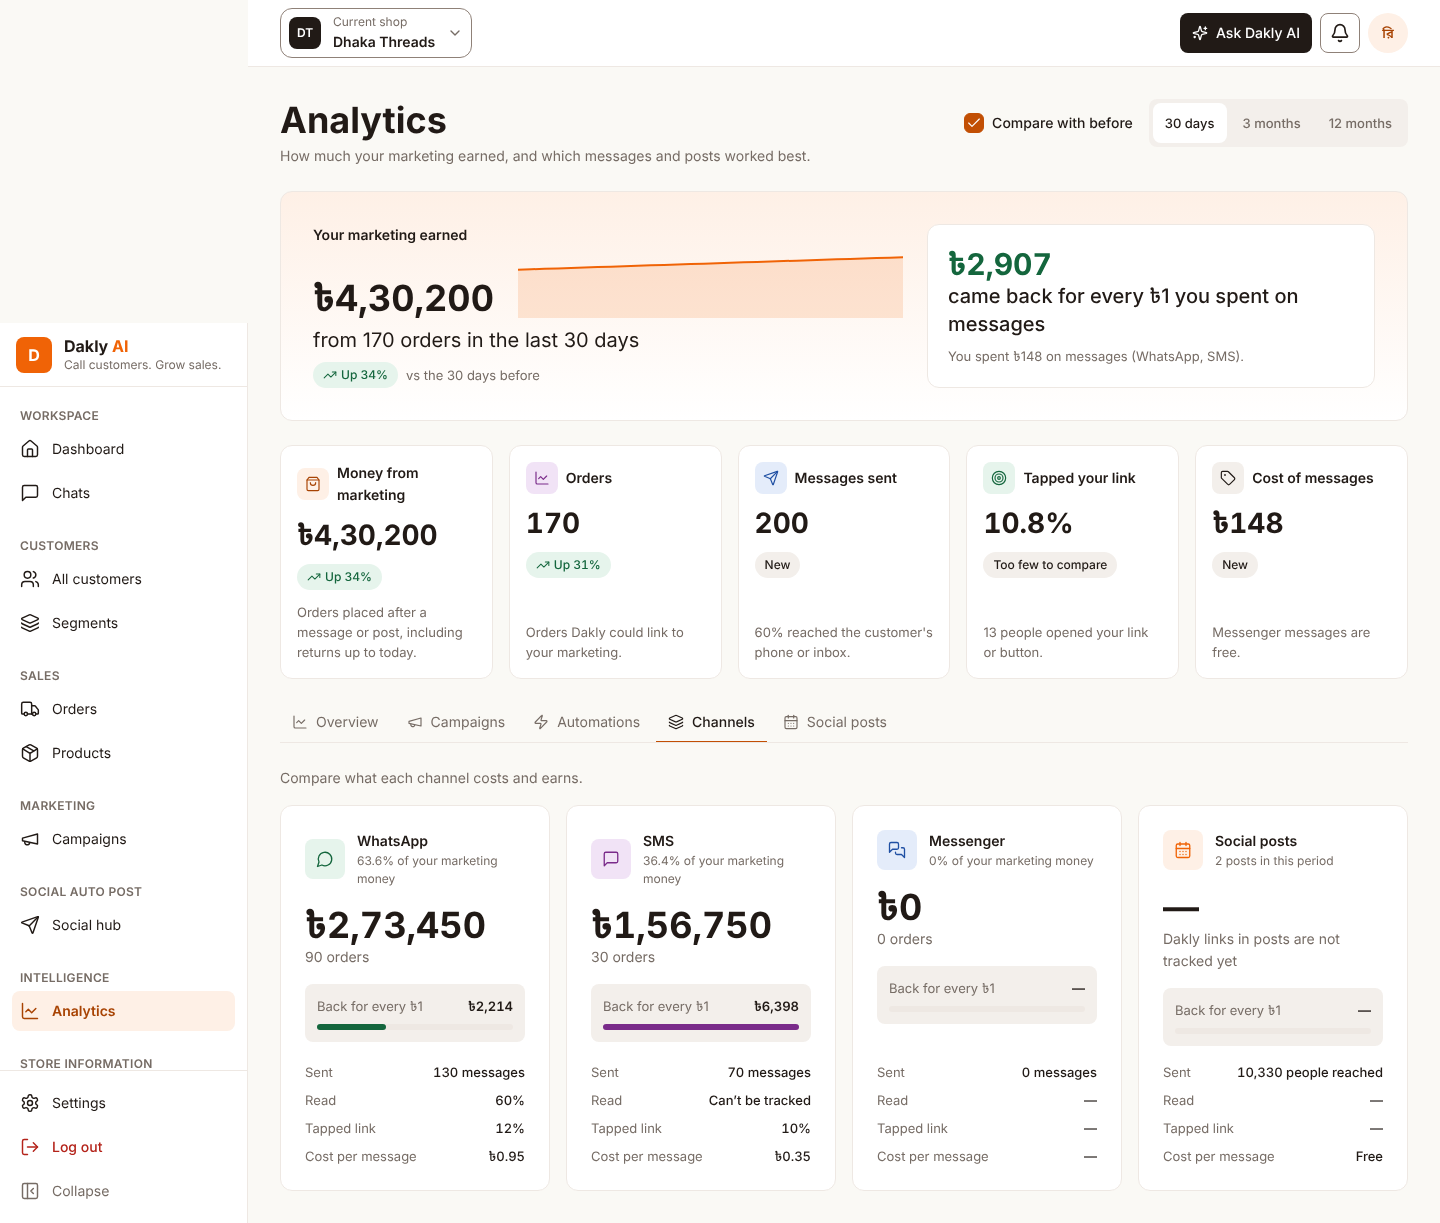
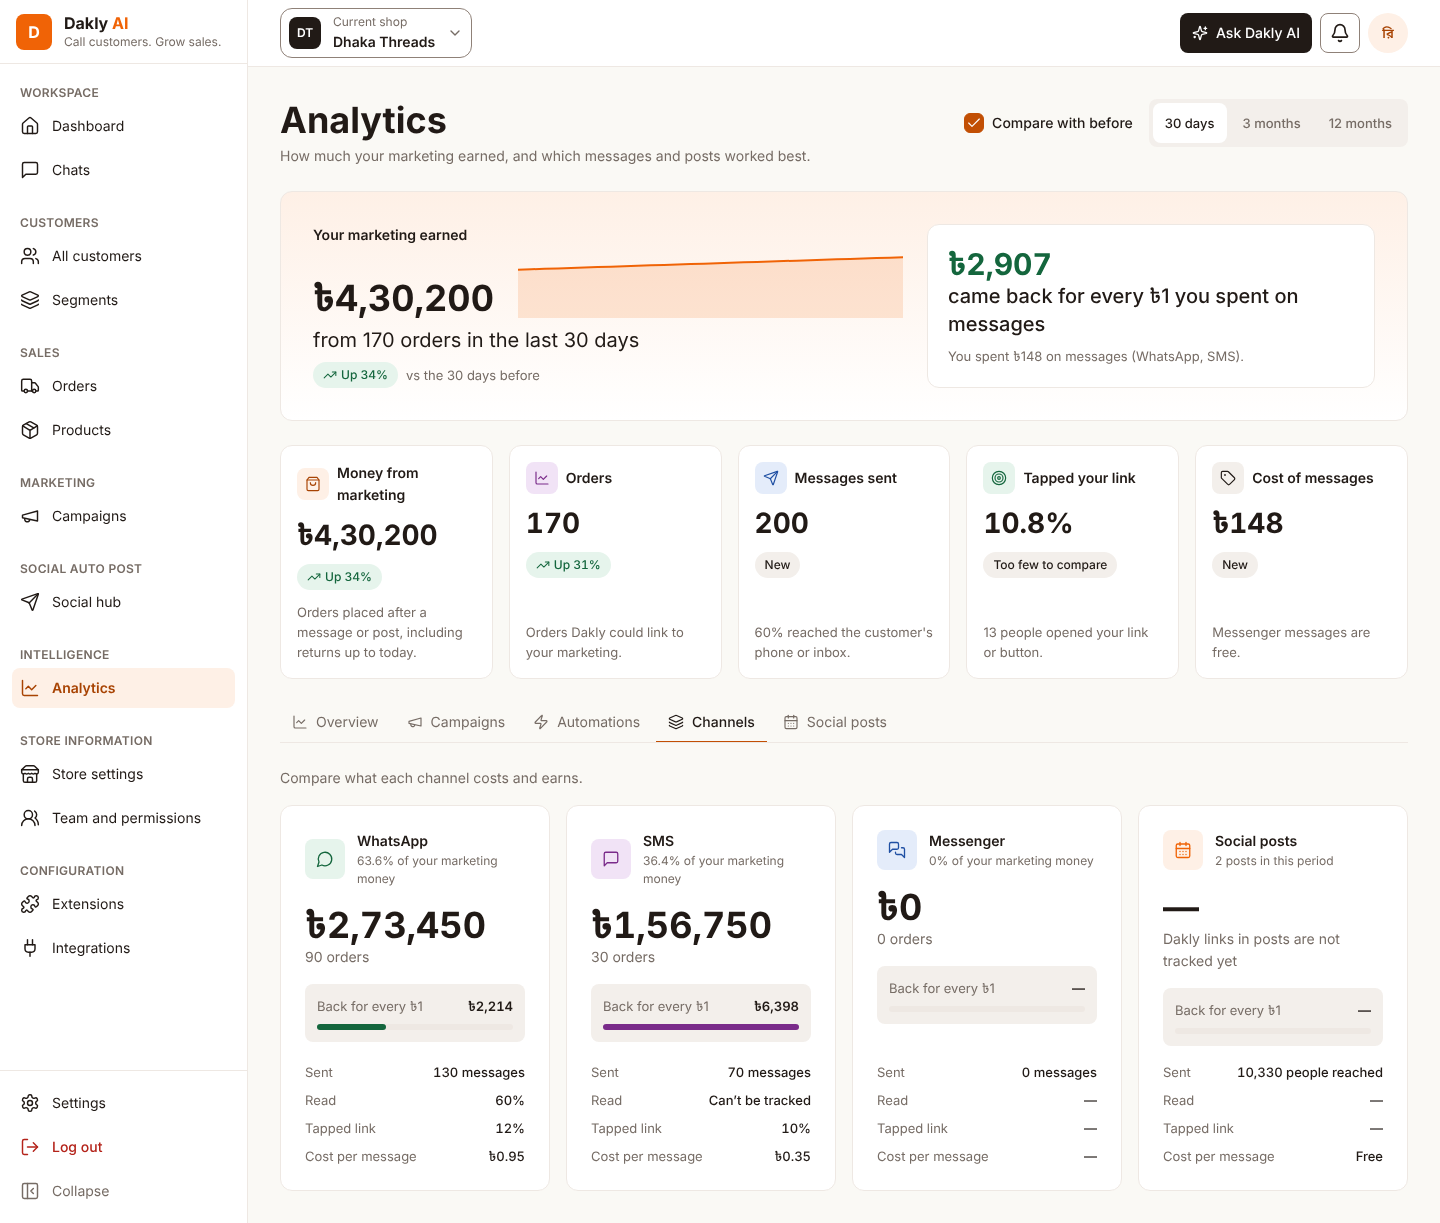
fix(ana-3): centre the open tab without moving the page and retake the evidence from the top

diff --git a/apps/web/src/features/analytics/components/analytics-tabs.tsx b/apps/web/src/features/analytics/components/analytics-tabs.tsx
@@ -1,5 +1,9 @@
+'use client';
+
+
 import { CalendarDays, ChartLine, Layers, Megaphone, Zap } from 'lucide-react';
 import Link from 'next/link';
+import { useEffect, useRef } from 'react';
 
 import type { AnalyticsView } from '@dakly/contracts/analytics';
 import { cn } from '@dakly/ui/cn';
@@ -15,17 +19,23 @@ const tabs = [
 ] as const;
 
 export function AnalyticsTabs({ view }: { view: AnalyticsView }) {
+  const row = useRef<HTMLElement>(null);
+  useEffect(() => {
+    centerOpenTab(row.current);
+    // Web fonts change the tab widths once they load.
+    void document.fonts?.ready.then(() => centerOpenTab(row.current));
+  }, [view.tab]);
   return (
-    <nav aria-label="Analytics tabs" className="flex gap-1 overflow-x-auto border-b border-border">
+    <nav
+      aria-label="Analytics tabs"
+      ref={row}
+      className="flex gap-1 overflow-x-auto border-b border-border"
+    >
       {tabs.map(({ id, label, icon: Icon }) => (
         <Link
           key={id}
           href={analyticsHref({ ...view, tab: id })}
           aria-current={view.tab === id ? 'page' : undefined}
-          // On a phone the row scrolls, so the open tab is brought into view.
-          ref={(link) => {
-            if (view.tab === id) link?.scrollIntoView?.({ inline: 'center', block: 'nearest' });
-          }}
           className={cn(
             '-mb-px inline-flex min-h-10 shrink-0 items-center gap-2 border-b-2 border-transparent px-3 text-base text-text-muted hover:text-text focus-visible:outline-2 focus-visible:outline-offset-2 focus-visible:outline-focus',
             view.tab === id && 'border-action font-medium text-text',
@@ -37,4 +47,10 @@ export function AnalyticsTabs({ view }: { view: AnalyticsView }) {
       ))}
     </nav>
   );
+}
+
+// On a phone the row scrolls sideways, so the open tab is centred. Only the row scrolls, never the page.
+function centerOpenTab(row: HTMLElement | null) {
+  const open = row?.querySelector<HTMLElement>('[aria-current="page"]');
+  if (row && open) row.scrollLeft = open.offsetLeft - (row.clientWidth - open.offsetWidth) / 2;
 }

diff --git a/apps/web/e2e/analytics.spec.ts b/apps/web/e2e/analytics.spec.ts
@@ -19,13 +19,29 @@ async function captureAtBothSizes(page: Page, name: string) {
     // The tab row scrolls on a phone and puts the open tab in view when the page opens at that width.
     if (width === 360) {
       await page.reload();
-      await expect(
-        page.getByRole('navigation', { name: 'Analytics tabs' }).locator('[aria-current="page"]'),
-      ).toBeInViewport();
+      await expect
+        .poll(() =>
+          page.evaluate(() => {
+            const row = document.querySelector('nav[aria-label="Analytics tabs"]');
+            const open = row?.querySelector('[aria-current="page"]');
+            if (!row || !open) return false;
+            const [outer, inner] = [row.getBoundingClientRect(), open.getBoundingClientRect()];
+            return inner.left >= outer.left - 1 && inner.right <= outer.right + 1;
+          }),
+        )
+        .toBe(true);
     }
     await expect
       .poll(() => page.evaluate(() => document.documentElement.scrollWidth <= innerWidth))
       .toBe(true);
+    // A full-page capture starts from the top, as the design screenshots do.
+    await page.evaluate(() => window.scrollTo(0, 0));
+    // The sidebar is as tall as the window, so the window takes the page's height for the capture.
+    if (evidence && width === 1440)
+      await page.setViewportSize({
+        width,
+        height: await page.evaluate(() => document.documentElement.scrollHeight),
+      });
     if (evidence)
       await page.screenshot({ path: resolve(evidence, `${name}-${width}.png`), fullPage: true });
   }
